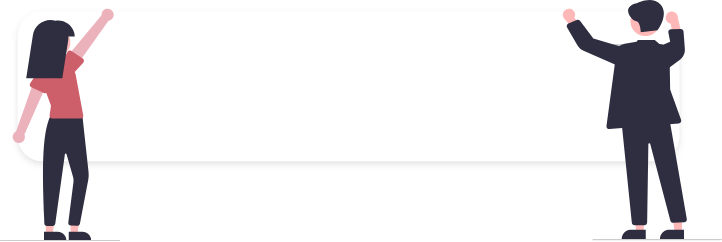
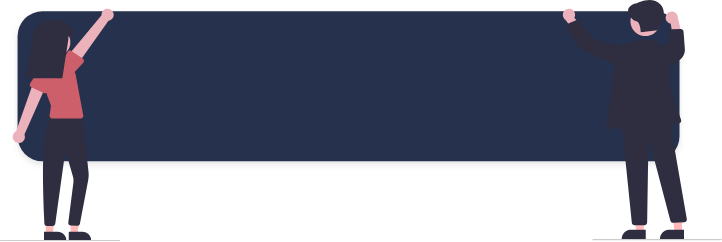
landing dark mode

diff --git a/src/components/landing/CoursesLanding.jsx b/src/components/landing/CoursesLanding.jsx
@@ -39,9 +39,9 @@ const Courses = () => {
 
             </div>
 
-            <div className="max-[1250px]:w-[90%] max-[700px]:[&>div]:w-[95%]  max-[820px]:[&>div]:w-[680px] max-[900px]:[&>div]:w-[800px] max-[900px]:[&>div]:mx-auto max-[1020px]:w-full max-[1020px]:flex-col-reverse max-[1020px]:items-center [&>div]:shadow-[0_0_7px_#ccc]  mx-auto [&>div]:mx-[30px] flex min-[1601px]:justify-center justify-center max-[1600px]:[&>div]:my-[15px]" >
+            <div className="max-[1250px]:w-[90%] max-[700px]:[&>div]:w-[95%] max-[820px]:[&>div]:w-[680px] max-[900px]:[&>div]:w-[800px] max-[900px]:[&>div]:mx-auto max-[1020px]:w-full max-[1020px]:flex-col-reverse max-[1020px]:items-center [&>div]:shadow-[0_0_7px_#ccc]  mx-auto [&>div]:mx-[30px] flex min-[1601px]:justify-center justify-center max-[1600px]:[&>div]:my-[15px]" >
 
-                <div className="[&>img:hover]:shadow-[0_0_25px_#999] bg-white w-[350px] max-[820px]:h-[150px] h-[600px] rounded-[25px] flex flex-col  max-[1020px]:flex-row justify-around items-center transition-all duration-100 relative max-[1020px]:h-[200px] max-[1020px]:w-[80%] max-[450px]:h-[105px]" >
+                <div className="[&>img:hover]:shadow-[0_0_25px_#999] bg-white dark:bg-gradient-to-br from-[#2e3a56] to-[#171f33] w-[350px] max-[820px]:h-[150px] h-[600px] rounded-[25px] flex flex-col  max-[1020px]:flex-row justify-around items-center transition-all duration-100 relative max-[1020px]:h-[200px] max-[1020px]:w-[80%] max-[450px]:h-[105px]" >
                     <img src="../src/assets/images/landingCourse/c-i-1.png" alt="" className="absolute left-[-160%] bottom-0 z-10 transition-all duration-1000 h-[250px] max-[1020px]:hidden"  id="coursesHolder1" />
                      {
                         item.map((el,index)=> {
@@ -54,15 +54,15 @@ const Courses = () => {
 
                 </div>
                      
-                <div className="bg-white w-[650px] max-[400px]:h-[400px] max-[963px]:h-[250px] h-[600px] relative py-[15px] rounded-[25px] transition-all duration-150 max-[1020px]:w-[80%] max-[1020px]:flex max-[1020px]:flex-row-reverse max-[1020px]:h-[300px] max-[1020px]:items-center max-[650px]:h-[400px] max-[650px]:flex-col " data-id="1" ref={landingCourse}>
+                <div className="bg-white dark:bg-gradient-to-tl from-[#2e3a56] to-[#171f33] w-[650px] max-[400px]:h-[400px] max-[963px]:h-[250px] h-[600px] relative py-[15px] rounded-[25px] transition-all duration-150 max-[1020px]:w-[80%] max-[1020px]:flex max-[1020px]:flex-row-reverse max-[1020px]:h-[300px] max-[1020px]:items-center max-[650px]:h-[400px] max-[650px]:flex-col " data-id="1" ref={landingCourse}>
                     <img src="../src/assets/images/landingCourse/c-i-2.png" alt="" className="absolute right-[-100%] top-[0px] w-28 -z-10 transition-all duration-1000 max-[1020px]:hidden " id="coursesHolder2"/>
                     <img src={item[1]?.tumbImageAddress} alt="" className="max-[560px]:w-[90%] max-[450px]:w-full max-[1020px]:scale-[80%] max-[963px]:w-[70%] max-[963px]:h-[230px] w-[90%] h-[280px] mx-auto rounded-[15px]" ref={bigPic}/>
                     <div className=" max-[650px]:mt-[15px] max-[400px]:mt-[15px] max-[650px]:pr-[15px] w-[90%] mx-auto relative max-[1020px]:left-[25px] max-[1020px]:bottom-[65px] max-[960px]:bottom-[50px] max-[903px]:bottom-[40px]">
                         <div className="max-[400px]:flex-col-reverse px-[10px] max-[650px]:items-end max-[400px]:mt-[20px] h-[50px] flex justify-between items-center relative top-[10px] max-[650px]:flex-row ">
-                            <div className="text-[18px] max-[500px]:text-[15px] max-[400px]:mb-[-11px]" ref={master}>{item[1]?.teacherName}</div>
-                            <div className="text-[24px] max-[500px]:text-[20px]" ref={title}> دوره کامل : {item[1]?.classRoomName}</div>
+                            <div className="text-[18px] max-[1020px]:text-[16px] max-[450px]:text-[15px] max-[400px]:mb-[-11px] dark:text-[#f5f5f5] relative max-[650px]:left-[-15px]" ref={master}>{item[1]?.teacherName.length < 13 ? item[1]?.teacherName : item[1]?.teacherName.slice(0,13)}</div>
+                            <div className="text-[24px] max-[500px]:text-[20px] max-[450px]:text-[18px] dark:text-[#fff] max-[1020px]:text-[18px]" ref={title}> دوره کامل : {item[1]?.classRoomName}</div>
                         </div>
-                        <div className="mt-[30px] text-[#777] px-[10px]" dir="rtl" ref={content}>{item[1]?.describe}</div>
+                        <div className="mt-[30px] text-[17px] text-[#777] px-[10px] dark:text-[#fff] leading-9 max-[650px]:mb-5 max-[1020px]:leading-6  max-[450px]:text-[14px] max-[1020px]:text-[15px]" dir="rtl" ref={content}>{item[1]?.describe}</div>
                     </div>
                     <Button content="مشاهده دوره" className="absolute left-7 bottom-4 max-[1020px]:bottom-[40px] max-[900px]:scale-[70%] max-[900px]:bottom-[20px] max-[650px]:bottom-[10px]" link={"/courses/" + num } />
                 </div>

diff --git a/src/components/landing/Recommands.jsx b/src/components/landing/Recommands.jsx
@@ -22,18 +22,18 @@ const Recommands = () => {
 
         <Formik initialValues={{name:"",email:"",textarea:"",bool:false}} onSubmit={(values)=> recommandsSubmit(values, "عملیات با موفقیت انجام شد" , setTheme)} validationSchema={recommandsValidation}>
             <Form className="w-full relative h-[65%] mt-28 max-[1510px]:mt-5 max-[1170px]:flex justify-center max-[710px]:mb-16 max-[500px]:mb-0">
-                <img src="../src/assets/images/landingRec/re-i.png" className="h-full relative max-[1630px]:left-[-45px] max-[1630px]:scale-[90%] transition-all duration-1000 max-[1510px]:left-[-94px] max-[1510px]:scale-[80%] max-[1510px]:h-[85%] max-[1510px]:top-20 max-[1170px]:hidden" />
-                <img src="../src/assets/images/landingService/Path 620.png" alt="" className='hidden max-[1170px]:inline-block absolute left-[-250px] top-[-150px] scale-[50%] drop-shadow-[0px_3px_6px_#5757574f] transition-all duration-1000 max-[855px]:scale-[40%] max-[855px]:top-[-180px] max-[710px]:hidden' id="recommandsPath"/>
-                <img src="../src/assets/images/landingRec/rec-icon.png" className="hidden w-40 max-[1170px]:inline-block absolute right-0 bottom-0 max-[710px]:bottom-[-155px] max-[500px]:hidden" />
-                <div className="mt-[-25px] py-4 w-[600px] shadow-[0_0_7px_#ddd] opacity-0 bg-white absolute right-24 top-0 rounded-3xl flex flex-col items-center justify-evenly transition-all duration-1000 max-[1630px]:scale-[90%] max-[1510px]:scale-[80%] max-[1510px]:w-[550px] max-[1170px]:relative max-[1170px]:left-[5px] max-[777px]:scale-[70%] max-[650px]:w-[700px]" id="recommandsForm">
+                <img src="../src/assets/images/landingRec/re-i.png" id="reI" className="h-full relative max-[1630px]:left-[-45px] max-[1630px]:scale-[90%] transition-all duration-1000 max-[1510px]:left-[-94px] max-[1510px]:scale-[80%] max-[1510px]:h-[85%] max-[1510px]:top-20 max-[1170px]:hidden" />
+                <img src="../src/assets/images/landingService/Path 620.png"  alt="" className='hidden max-[1170px]:inline-block absolute left-[-250px] top-[-150px] scale-[50%] drop-shadow-[0px_3px_6px_#5757574f] transition-all duration-1000 max-[855px]:scale-[40%] max-[855px]:top-[-180px] max-[710px]:hidden' id="recommandsPath"/>
+                <img src="../src/assets/images/landingRec/rec-icon.png" id="recIcon" className="hidden w-40 max-[1170px]:inline-block absolute right-0 bottom-0 max-[710px]:bottom-[-155px] max-[500px]:hidden" />
+                <div className="bg-white dark:bg-gradient-to-tr from-[#4b5f8e] to-[#263659] mt-[-25px] py-4 w-[600px] shadow-[0_0_7px_#ddd] opacity-0 absolute right-24 top-0 rounded-3xl flex flex-col items-center justify-evenly transition-all duration-1000 max-[1630px]:scale-[90%] max-[1510px]:scale-[80%] max-[1510px]:w-[550px] max-[1170px]:relative max-[1170px]:left-[5px] max-[777px]:scale-[70%] max-[650px]:w-[700px]" id="recommandsForm">
 
                     <FieldInput name="name" content="نام کاربری" placeholder="user name" border="border"/>
 
                     <FieldInput name="email" content="ایمیل" placeholder="enter your email address" border="border"/>
                     
                     <div className="relative w-full flex justify-center">
-                        <Field name="textarea" type="text" as="textarea" className="placeholder:text-[#5a0ba951] text-[#5A0BA9] border border-[#70707023] outline-none rounded-lg w-[85%] h-80 pl-5 pt-10 px-[5px] resize-none" />
-                        <div className="text-[20px] text-[#67008F] absolute right-[58px] top-3 transiition-all duration-[.5s]">متن پیام</div>
+                        <Field name="textarea" type="text" as="textarea" className="dark:bg-[#26324D] placeholder:text-[#5a0ba951] text-[#5A0BA9] border border-[#70707023] outline-none rounded-lg w-[85%] h-80 pl-5 pt-10 px-[5px] resize-none" />
+                        <div className="dark:text-[#fff] text-[20px] text-[#67008F] absolute right-[58px] top-3 transiition-all duration-[.5s]">متن پیام</div>
                     </div>
                     <div className="self-end mr-14 h-6" >
                         <ErrorMessage component={"div"} name="textarea" className='text-[#B00020] text-[18px] ErrorMessage' />

diff --git a/src/core/utils/darkMode.utils.js b/src/core/utils/darkMode.utils.js
@@ -6,9 +6,9 @@ const darkMode = () => {
     }
 
     if(location.pathname == "/") {
-        var elementImages = [heroSection.children[0] , heroSectionWoman , servicesWoman , servicesMan , servicesPath , mas1 , mas2 ]
-        var lightSrc = ["../src/assets/images/heroSection/bg-top.png" , "../src/assets/images/heroSection/woman.png" , "../src/assets/images/landingService/Group 159.png" , "../src/assets/images/landingService/Group 160.png" , "../src/assets/images/landingService/Path 620.png" , "../src/assets/images/landingMaster/77777.png" , "../src/assets/images/landingMaster/Path 564.png"]
-        var darktSrc = ["../src/assets/images/heroSection/bg-top-dark.png" , "../src/assets/images/heroSection/woman-dark.png" , "../src/assets/images/landingService/Group 159-dark.png" , "../src/assets/images/landingService/Group 160-dark.png" , "../src/assets/images/landingService/Path 620-dark.png" , "../src/assets/images/landingMaster/77777-dark.png" , "../src/assets/images/landingMaster/Path 564-dark.png"]
+        var elementImages = [heroSection.children[0] , heroSectionWoman , servicesWoman , servicesMan , servicesPath , mas1 , mas2 , landingNewsTitle , reI , recIcon , recommandsPath]
+        var lightSrc = ["../src/assets/images/heroSection/bg-top.png" , "../src/assets/images/heroSection/woman.png" , "../src/assets/images/landingService/Group 159.png" , "../src/assets/images/landingService/Group 160.png" , "../src/assets/images/landingService/Path 620.png" , "../src/assets/images/landingMaster/77777.png" , "../src/assets/images/landingMaster/Path 564.png" , "../src/assets/images/Group 135.png" , "../src/assets/images/landingRec/re-i.png" , "../src/assets/images/landingRec/rec-icon.png" , "../src/assets/images/landingService/Path 620.png"]
+        var darktSrc = ["../src/assets/images/heroSection/bg-top-dark.png" , "../src/assets/images/heroSection/woman-dark.png" , "../src/assets/images/landingService/Group 159-dark.png" , "../src/assets/images/landingService/Group 160-dark.png" , "../src/assets/images/landingService/Path 620-dark.png" , "../src/assets/images/landingMaster/77777-dark.png" , "../src/assets/images/landingMaster/Path 564-dark.png" , "../src/assets/images/Group 135-dark.png" , "../src/assets/images/landingRec/re-i-dark.png" , "../src/assets/images/landingRec/rec-icon-dark.png" , "../src/assets/images/landingService/Path 620-dark.png"]
     }
     let loc = localStorage.getItem("theme")
 

diff --git a/src/components/landing/Masters.jsx b/src/components/landing/Masters.jsx
@@ -21,11 +21,11 @@ const Masters = () => {
       <div className='w-full flex flex-col justify-center items-center relative [&>div]:my-8'>
           <TitleComponents title="اساتید برتر" content="استاد های مهربون و دوست داشتی" src="courses-title.png" className="flex" />
 
-          <div className="[&>div]:h-full w-[550px] h-[220px] rounded-[15px] flex max-[600px]:flex-col-reverse relative shadow-[0px_0px_6px_#ccc] bg-white max-[1300px]:scale-[90%] transition-all duration-1000 max-[1023px]:w-[90%] max-[600px]:h-[400px]">
+          <div className="[&>div]:h-full w-[550px] h-[220px] rounded-[15px] flex max-[600px]:flex-col-reverse relative shadow-[0px_0px_6px_#ccc] bg-white dark:bg-[#26324D] max-[1300px]:scale-[90%] transition-all duration-1000 max-[1023px]:w-[90%] max-[600px]:h-[400px]">
               <div dir="rtl" className="w-[80%] max-[600px]:w-full flex flex-col justify-center max-[600px]:items-center [&>p]:py-[4px] max-[600px]:pr-[0px] pr-[25px]">
-                <p className="text-[22px]">دکتر بحرالعلوم</p>
-                <p className="text-[#555]">مدیریت</p>
-                <p dir="rtl" className="text-[#777] w-[90%] ">مدرس در آموزشگاه  , مدرس در دانشگاه علم و فناوری مازندران مستقر در بهشهر , مدرس دوره های وب</p> 
+                <p className="text-[22px] dark:text-[#fff]">دکتر بحرالعلوم</p>
+                <p className="text-[#555] dark:text-[#f5f5f5]">مدیریت</p>
+                <p dir="rtl" className="text-[#777] w-[90%] dark:text-[#f1f1f1]">مدرس در آموزشگاه  , مدرس در دانشگاه علم و فناوری مازندران مستقر در بهشهر , مدرس دوره های وب</p> 
               </div>
               <div className="w-[20%]  flex items-center justify-center max-[600px]:w-full">
                   <img src="../src/assets/images/landingMaster/ostad.jpg" alt="" className="rounded-[10px] w-[150px] max-[600px]:ml-[0px] ml-[50px]" /> 

diff --git a/src/components/landing/news/News.jsx b/src/components/landing/news/News.jsx
@@ -9,13 +9,13 @@ const News = () => {
     <div className="w-full flex flex-col items-center">
 
       <div className="w-[32%] h-[180px] relative max-[1279px]:scale-x-[120%] max-[1023px]:hidden">
-        <img src="../src/assets/images/Group 135.png" alt="" className="w-full h-full"/>
-        <p className="text-[#5a0ba9] absolute top-[25%] right-[38%] text-[24px]">اخبار و مقالات</p>
+        <img src="../src/assets/images/Group 135.png" alt="" className="w-full h-full" id="landingNewsTitle"/>
+        <p className="text-[#5a0ba9] dark:text-[#fff] absolute top-[25%] right-[38%] text-[24px]">اخبار و مقالات</p>
       </div>
 
       <TitleComponents title="اخبار و مقالات" src="courses-title.png" className="max-[1023px]:flex min-[1023px]:hidden mb-[40px]" />
 
-      <div className="w-[90%] flex gap-20 [&>div]:w-[50%] [&>div]:shadow-[0px_0px_20px_#5757574f] [&>div]:mx-3 [&>div]:relative [&>div]:rounded-[15px] [&>div]:flex [&>div]:pt-[35px] max-[600px]:[&>div]:pt-[20px] [&>div]:items-center [&>div]:flex-col [&>div]:h-[470px] max-[600px]:[&>div]:h-[550px] max-[1200px]:flex-col max-[1200px]:[&>div]:mx-auto max-[1200px]:[&>div]:w-[85%] max-[1200px]:[&>div]:my-[10px] max-[600px]:w-[95%] max-[600px]:[&>div]:w-[400px] max-[450px]:[&>div]:w-full [&>div]:bg-white ">
+      <div className="w-[90%] flex gap-20 [&>div]:w-[50%] [&>div]:shadow-[0px_0px_20px_#5757574f] [&>div]:mx-3 [&>div]:relative [&>div]:rounded-[15px] [&>div]:flex [&>div]:pt-[35px] max-[600px]:[&>div]:pt-[20px] [&>div]:items-center [&>div]:flex-col [&>div]:h-[470px] max-[600px]:[&>div]:h-[550px] max-[1200px]:flex-col max-[1200px]:[&>div]:mx-auto max-[1200px]:[&>div]:w-[85%] max-[1200px]:[&>div]:my-[10px] max-[600px]:w-[95%] max-[600px]:[&>div]:w-[400px] max-[450px]:[&>div]:w-full [&>div]:bg-white dark:[&>div]:bg-[#26324D] ">
           <div>
               <TitleItemNews content="اخبار"/>
               <ItemNews />

diff --git a/src/components/common/FieldInput.jsx b/src/components/common/FieldInput.jsx
@@ -4,15 +4,15 @@ import showPassword from '../../core/utils/showPassword.utils'
 const FieldInput = ({as,type,content,name,placeholder,border,display,className,dir,showPasswordCheck}) => {
   return (
     <>
-        <div dir={dir} className={"relative w-[85%] flex justify-between items-center rounded-lg pr-[15px] overflow-hidden " + border }>
+        <div dir={dir} className={"dark:bg-[#26324D] relative w-[85%] flex justify-between items-center rounded-lg pr-[15px] overflow-hidden " + border }>
 
-          <Field name={name} as={as} type={type} className={"text-[18px] w-full placeholder:text-[#5a0ba951] text-[#5A0BA9]  border-[rgba(112,112,112,0.14)] outline-none rounded-lg h-12 pl-5 " + className } placeholder={placeholder} />
+          <Field name={name} as={as} type={type} className={"dark:bg-transparent dark:placeholder:text-white dark:text-white text-[18px] w-full placeholder:text-[#5a0ba951] text-[#5A0BA9]  border-[rgba(112,112,112,0.14)] outline-none rounded-lg h-12 pl-5 " + className } placeholder={placeholder} />
           <img src="../../src/assets/images/panel/view.svg" className={showPasswordCheck == true ? "w-7 ml-3 cursor-pointer" : "hidden"} onClick={(e)=> showPassword(e)} />
-          <div className={"text-[#67008F] transiition-all duration-[.5s] whitespace-nowrap " + display }> {content} </div>
+          <div className={"text-[#67008F] transiition-all duration-[.5s] whitespace-nowrap dark:text-white " + display }> {content} </div>
         
         </div>
         <div className="self-end mr-14 h-7">
-          <ErrorMessage component="div" name={name} className='text-[#B00020] ErrorMessage' />
+          <ErrorMessage component="div" name={name} className='text-[#B00020] ErrorMessage dark:text-[#ff3c60]' />
         </div>
     </>
 

diff --git a/src/screens/Register.jsx b/src/screens/Register.jsx
@@ -114,7 +114,6 @@ const Register = () => {
                     <span className="self-start" ref={sendAgainIn}>ارسال مجدد کد در : {codeM}:{codeS} </span>
                     <span className="self-start hidden cursor-pointer" ref={sendAgain} onClick={resendCode}> <span className="text-[#bbb] cursor-default"> کدی دریافت نکردید؟ </span> ارسال مجدد کد </span>
                   </div> }
-                  {/* {flag == 2 && } */}
                   {flag == 3 && <FieldInput name="phoneNumber" type="number" placeholder="شماره موبایل " dir="rtl" border="border border-[#a361a1]" display="text-[#999] text-[15px]" className="placeholder:text-[#ccc]" />}
                   {flag == 3 && <FieldInput name="Password" type="Password" placeholder="رمز عبور" dir="rtl" border="border border-[#a361a1]" display="text-[#999] text-[15px]" className="placeholder:text-[#ccc]" showPasswordCheck={true} />}
                   {flag == 3 && <FieldInput name="Email" type="text" placeholder="جیمیل را وارد کنید" dir="rtl" border="border border-[#a361a1]" display="text-[#999] text-[15px]" className="placeholder:text-[#ccc]" />}

diff --git a/src/components/landing/news/ItemLandingNews.jsx b/src/components/landing/news/ItemLandingNews.jsx
@@ -2,8 +2,8 @@
 const ItemLandingNews = ({ image }) => {
   return (
     <>
-      <div dir="rtl" className="w-[95%] h-[120px] px-5 rounded-xl shadow-[0_-5px_5px_#dddf] max-[600px]:my-2 flex flex-row-reverse justify-around items-center max-[1400px]:[&>p]:text-[18px] max-[600px]:flex-col-reverse max-[600px]:h-[145px]">
-          <p className="text-[#888] text-[20px] mx-3 max-[600px]:truncate max-[600px]:w-[100%]">آموزشگاه در تدارک دوره های جدید برنامه نویسی است</p>
+      <div dir="rtl" className="dark:bg-gradient-to-l from-[#182239] to-[#314062] w-[95%] h-[120px] px-5 rounded-xl shadow-[0_-5px_5px_#dddf] max-[600px]:my-2 flex flex-row-reverse justify-around items-center max-[1400px]:[&>p]:text-[18px] max-[600px]:flex-col-reverse max-[600px]:h-[145px]">
+          <p className="dark:text-[#fff] text-[#888] text-[20px] mx-3 max-[600px]:truncate max-[600px]:w-[100%]">آموزشگاه در تدارک دوره های جدید برنامه نویسی است</p>
           <img src={"../src/assets/images/courses/" + image} alt="" className="w-[150px] h-[100px] rounded-[15px] ml-5 mt-2"/>
       </div>
     </>

diff --git a/src/components/landing/Category.jsx b/src/components/landing/Category.jsx
@@ -7,7 +7,7 @@ const Category = () => {
   return (
     <div className="w-full flex flex-col justify-around items-center relative">
       <TitleComponents title="دسته بندی ها" content="گسترده وسیعی از موضوعات" src="courses-title.png" />
-      <div className="w-[80%] my-10 flex flex-wrap justify-center [&>div]:bg-[#1e293b] max-[1000px]:[&>div]:transtion max-[1000px]:[&>div]:duration-1000 [&>div]:m-5 [&>div]:flex [&>div]:flex-col [&>div]:items-center [&>div]:justify-around  [&>div]:rounded-[15px] [&>div]:shadow-[0px_0px_2px_#5757574f] text-[27px] max-[1000px]:text-[20px] max-[350px]:[&>div]:my-[-5px]">
+      <div className="w-[80%] my-10 flex flex-wrap justify-center [&>div]:bg-[#fff] dark:[&>div]:bg-[#1e293b] max-[1000px]:[&>div]:transtion max-[1000px]:[&>div]:duration-1000 [&>div]:m-5 [&>div]:flex [&>div]:flex-col [&>div]:items-center [&>div]:justify-around  [&>div]:rounded-[15px] [&>div]:shadow-[0px_0px_2px_#5757574f] text-[27px] max-[1000px]:text-[20px] max-[350px]:[&>div]:my-[-5px]">
           <LandingCatMap />
       </div>
       <Button content="بیشتر" link="/courses" />

diff --git a/src/components/common/Master.jsx b/src/components/common/Master.jsx
@@ -1,9 +1,9 @@
 const Master = ({name,ability,src}) => {
   return (
-    <div className="w-[340px] scale-[107%] h-[120px] border my-7 rounded-[15px] shadow-[0px_0px_6px_#ccc] relative pr-8 bg-white">
+    <div className="w-[340px] scale-[107%] h-[120px] border my-7 rounded-[15px] shadow-[0px_0px_6px_#ccc] relative pr-8 bg-white dark:bg-[#26324D] dark:shadow-none">
         <img src={src} alt="" className="h-[90px] w-[90px] absolute right-[8px] top-[-35px] rounded-[15px] max-[1023px]:top-[15px] max-[700px]:scale-[85%]"/>
-        <p className="text-[22px] mb-2 max-[650px]:text-[18px] truncate w-[150px] text-center" >{name}</p>
-        <p className="text-[17px] text-[#444] ml-[13px] max-[650px]:text-[14px]">{ability}</p>
+        <p className="text-[22px] mb-2 max-[650px]:text-[18px] truncate w-[150px] text-center dark:text-[#fff]" >{name}</p>
+        <p className="text-[17px] text-[#444] ml-[13px] max-[650px]:text-[14px] dark:text-[#f9f9f9]">{ability}</p>
     </div>
   )
 }

diff --git a/src/core/utils/headerScroll.utils.js b/src/core/utils/headerScroll.utils.js
@@ -6,7 +6,7 @@ const headerScroll = () => {
             header.style.boxShadow = "0 0 7px #ddd" ;
             header.style.background = "#fff";
             header.firstChild.style.paddingLeft = "25px"
-            if(document.documentElement.className == "dark") header.style.background = "#333";
+            if(document.documentElement.className == "dark") header.style.background = "#182239";
         }
         else header.style.background = "linear-gradient(97deg, rgba(90,11,169,1) 0%, rgba(192,3,178,1) 100%)";
         header.style.position = "fixed";

diff --git a/src/components/landing/news/TitleItemNews.jsx b/src/components/landing/news/TitleItemNews.jsx
@@ -1,6 +1,6 @@
 const TitleItemNews = ({content}) => {
   return (
-    <div className="absolute top-[-25px] right-[-15px] max-[460px]:right-[5px] p-2 w-[70px] scale-[110%] text-center shadow-[0_0_7px_#bbb] bg-white rounded-[15px]">
+    <div className="bg-white dark:bg-[#45516b] dark:text-[#fff] absolute top-[-25px] right-[-15px] max-[460px]:right-[5px] p-2 w-[70px] scale-[110%] text-center shadow-[0_0_7px_#bbb] rounded-[15px]">
         {content}
     </div>
   )
